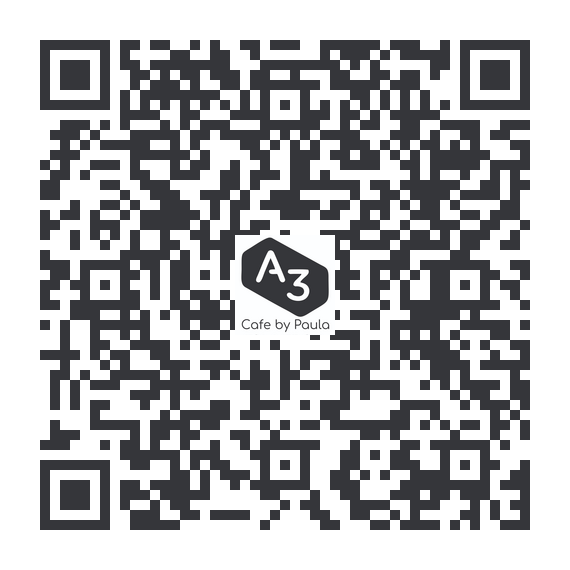
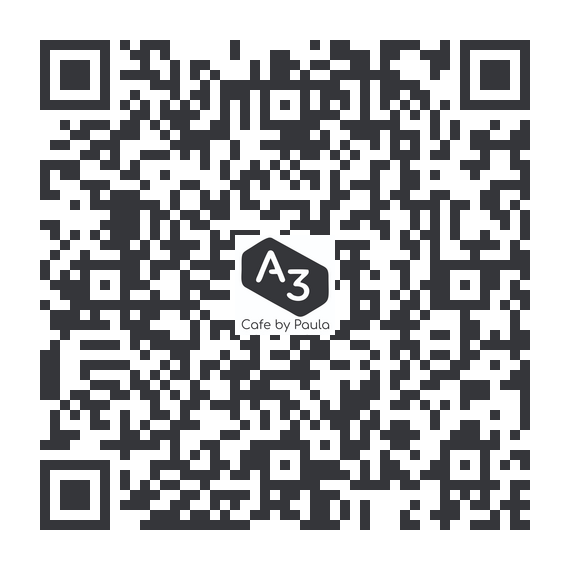
Updated CSS style and changed text and messages

Changed region(s): [[0.0596, 0.0596, 0.9544, 0.9544]]

diff --git a/templates/index.html b/templates/index.html
@@ -1,19 +1,23 @@
 <!DOCTYPE html>
 <html>
   <head>
-    <title>QR Code Generator</title>
+    <title>EnterA3</title>
     <link rel="stylesheet" type="text/css" href="static/styles.css">
+    <link rel="preconnect" href="https://fonts.googleapis.com">
+    <link rel="preconnect" href="https://fonts.gstatic.com" crossorigin>
+    <link href="https://fonts.googleapis.com/css2?family=Montserrat&display=swap" rel="stylesheet">
   </head>
   <body>
-    <h1>QR Code Generator</h1>
+    <h1>EnterA3</h1>
+    <h2>App web de mensajería para Café by Paula</h2>
     <form method="post" action="{{url_for('generate_qr')}}">
-      <label for="order_input">Order Number:</label>
+      <label for="order_input">Número de pedido:</label>
       <input type="text" id="order_input" name="order_input" required>
       <br>
-      <label for="name_input">Name:</label>
+      <label for="name_input">Nombre:</label>
       <input type="text" id="name_input" name="name_input">
       <br><br>
-      <input type="submit" value="Generate QR">
+      <input type="submit" value="Generar código QR">
     </form>
     {% if image %}
     <img src="{{ image }}" alt="QR Code">

diff --git a/static/styles.css b/static/styles.css
@@ -1,16 +1,32 @@
-/* This will style the h1 element */
-h1 {
-  color: blue;
-  text-align: center;
+body {
+  background-color: #fdfeff;
 }
 
-/* This will style the form element */
+h1 {
+  color: #35363a;
+  text-align: center;
+  font-family: 'Montserrat', sans-serif;
+}
+
+h2 {
+  color: #35363a;
+  text-align: center;
+  font-family: 'Montserrat', sans-serif;
+}
+
+label {
+  font-family: 'Montserrat', sans-serif;
+}
+
+input {
+  font-family: 'Montserrat', sans-serif;
+}
+
 form {
   margin: 0 auto;
   width: 50%;
 }
 
-/* This will style the input elements within the form element */
 form input {
   padding: 12px 20px;
   margin: 8px 0;
@@ -18,9 +34,8 @@ form input {
   width: 100%;
 }
 
-/* This will style the form element */
 img {
   margin: 0 auto;
-  width: 40%;
+  width: 55%;
   display: flex;
 }

diff --git a/app.py b/app.py
@@ -16,7 +16,7 @@ def generate_qr():
             img.save('static/qr.png')
             return render_template('index.html', image="static/qr.png")
         else:
-            return 'Please enter an order number'
+            return 'Ingresá un número de orden, por favor'
     else:
         return render_template('index.html')
 
@@ -24,7 +24,7 @@ def generate_qr():
 def getData(order, name):
     telephone = "5493884701268"
     if name == "":
-        baseMessage = f"Buenas! Mi pedido es el {order}."
+        baseMessage = f"Hola! Mi pedido es el {order}."
     else:
         baseMessage = f"Soy {name}! Mi pedido es el {order}."
 
